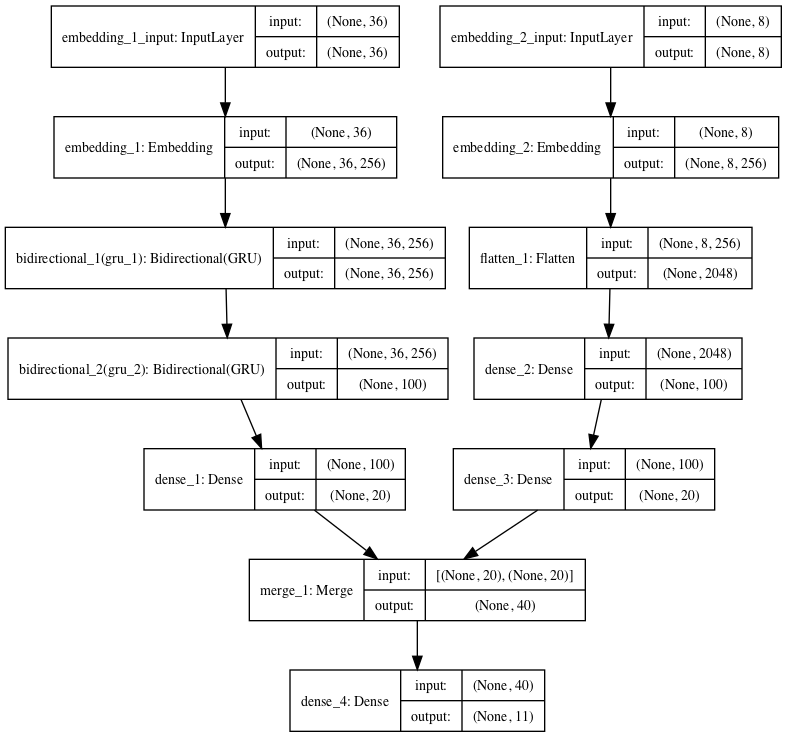
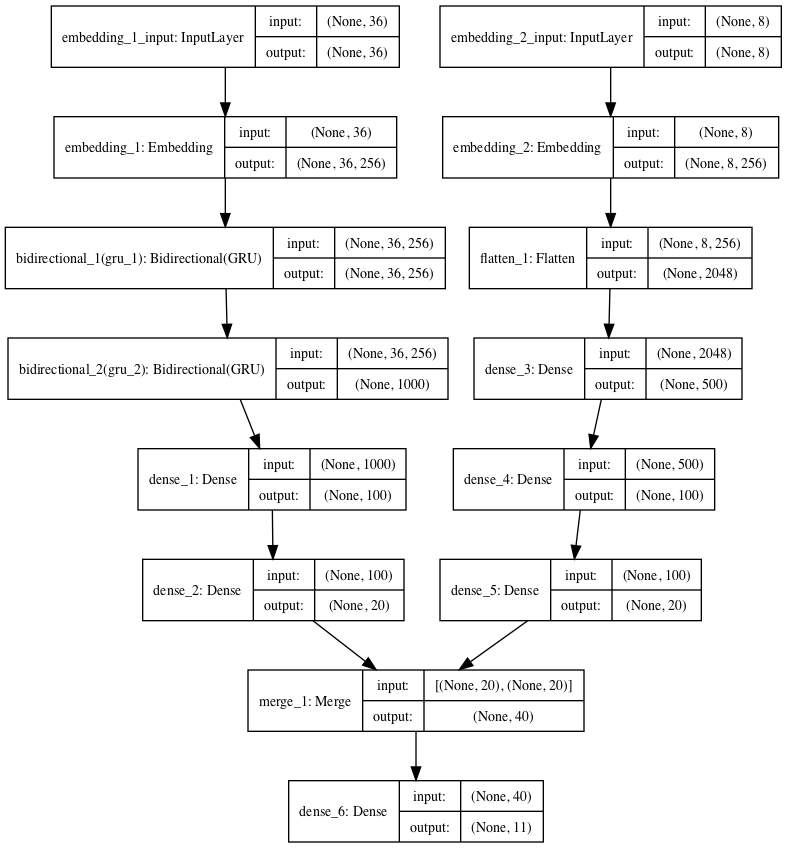
update rnn, 8th row

Changed region(s): [[0.0, 0.1248, 1.0, 0.9986], [0.061, 0.0, 0.5184, 0.0936], [0.5489, 0.0, 1.0, 0.0936]]

diff --git a/code/twitter_sentiment_rnn.py b/code/twitter_sentiment_rnn.py
@@ -178,13 +178,15 @@ def twitter_rnn(vocabulary_size: int, sentence_length: int, tag_num: int, n_outp
     model_sentence = Sequential()
     model_sentence.add(Embedding(vocabulary_size, output_dim=256, input_length=sentence_length)) 
     model_sentence.add(Bidirectional(GRU(128, return_sequences=True))) 
-    model_sentence.add(Bidirectional(GRU(50)))
+    model_sentence.add(Bidirectional(GRU(500)))
+    model_sentence.add(Dense(100, activation='tanh'))
     model_sentence.add(Dense(20, activation='tanh'))
 
     #tag
     model_tag = Sequential()
     model_tag.add(Embedding(vocabulary_size, output_dim=256, input_length=tag_num)) 
     model_tag.add(Flatten()) 
+    model_tag.add(Dense(500, activation='tanh'))
     model_tag.add(Dense(100, activation='tanh'))
     model_tag.add(Dense(20, activation='tanh'))
 
@@ -195,7 +197,7 @@ def twitter_rnn(vocabulary_size: int, sentence_length: int, tag_num: int, n_outp
     model.compile(loss='binary_crossentropy', optimizer='Adam', metrics=['accuracy'])
 
     print(model.summary())
-    plot_model(model, show_shapes = True, to_file='rnn.png')
+    plot_model(model, show_shapes = True, to_file='rnn8.png')
 
     kwargs = {'callbacks': [EarlyStopping(monitor='val_loss', min_delta=0.0001, patience=5, verbose=0, mode='auto')], 'batch_size': 32}
 
@@ -248,6 +250,11 @@ def main():
         tag_n = train_tag.shape[1]
         n_outputs = train_out.shape[1]
         n_inputs = train_concate.shape[1]
+
+        print('nums:')
+        print (sentence_len)
+        print (tag_n)
+        print (n_inputs)
 
         dev_dataset = load_data('dev')
         dev_sentence, dev_tag = dev_dataset.get_input()
